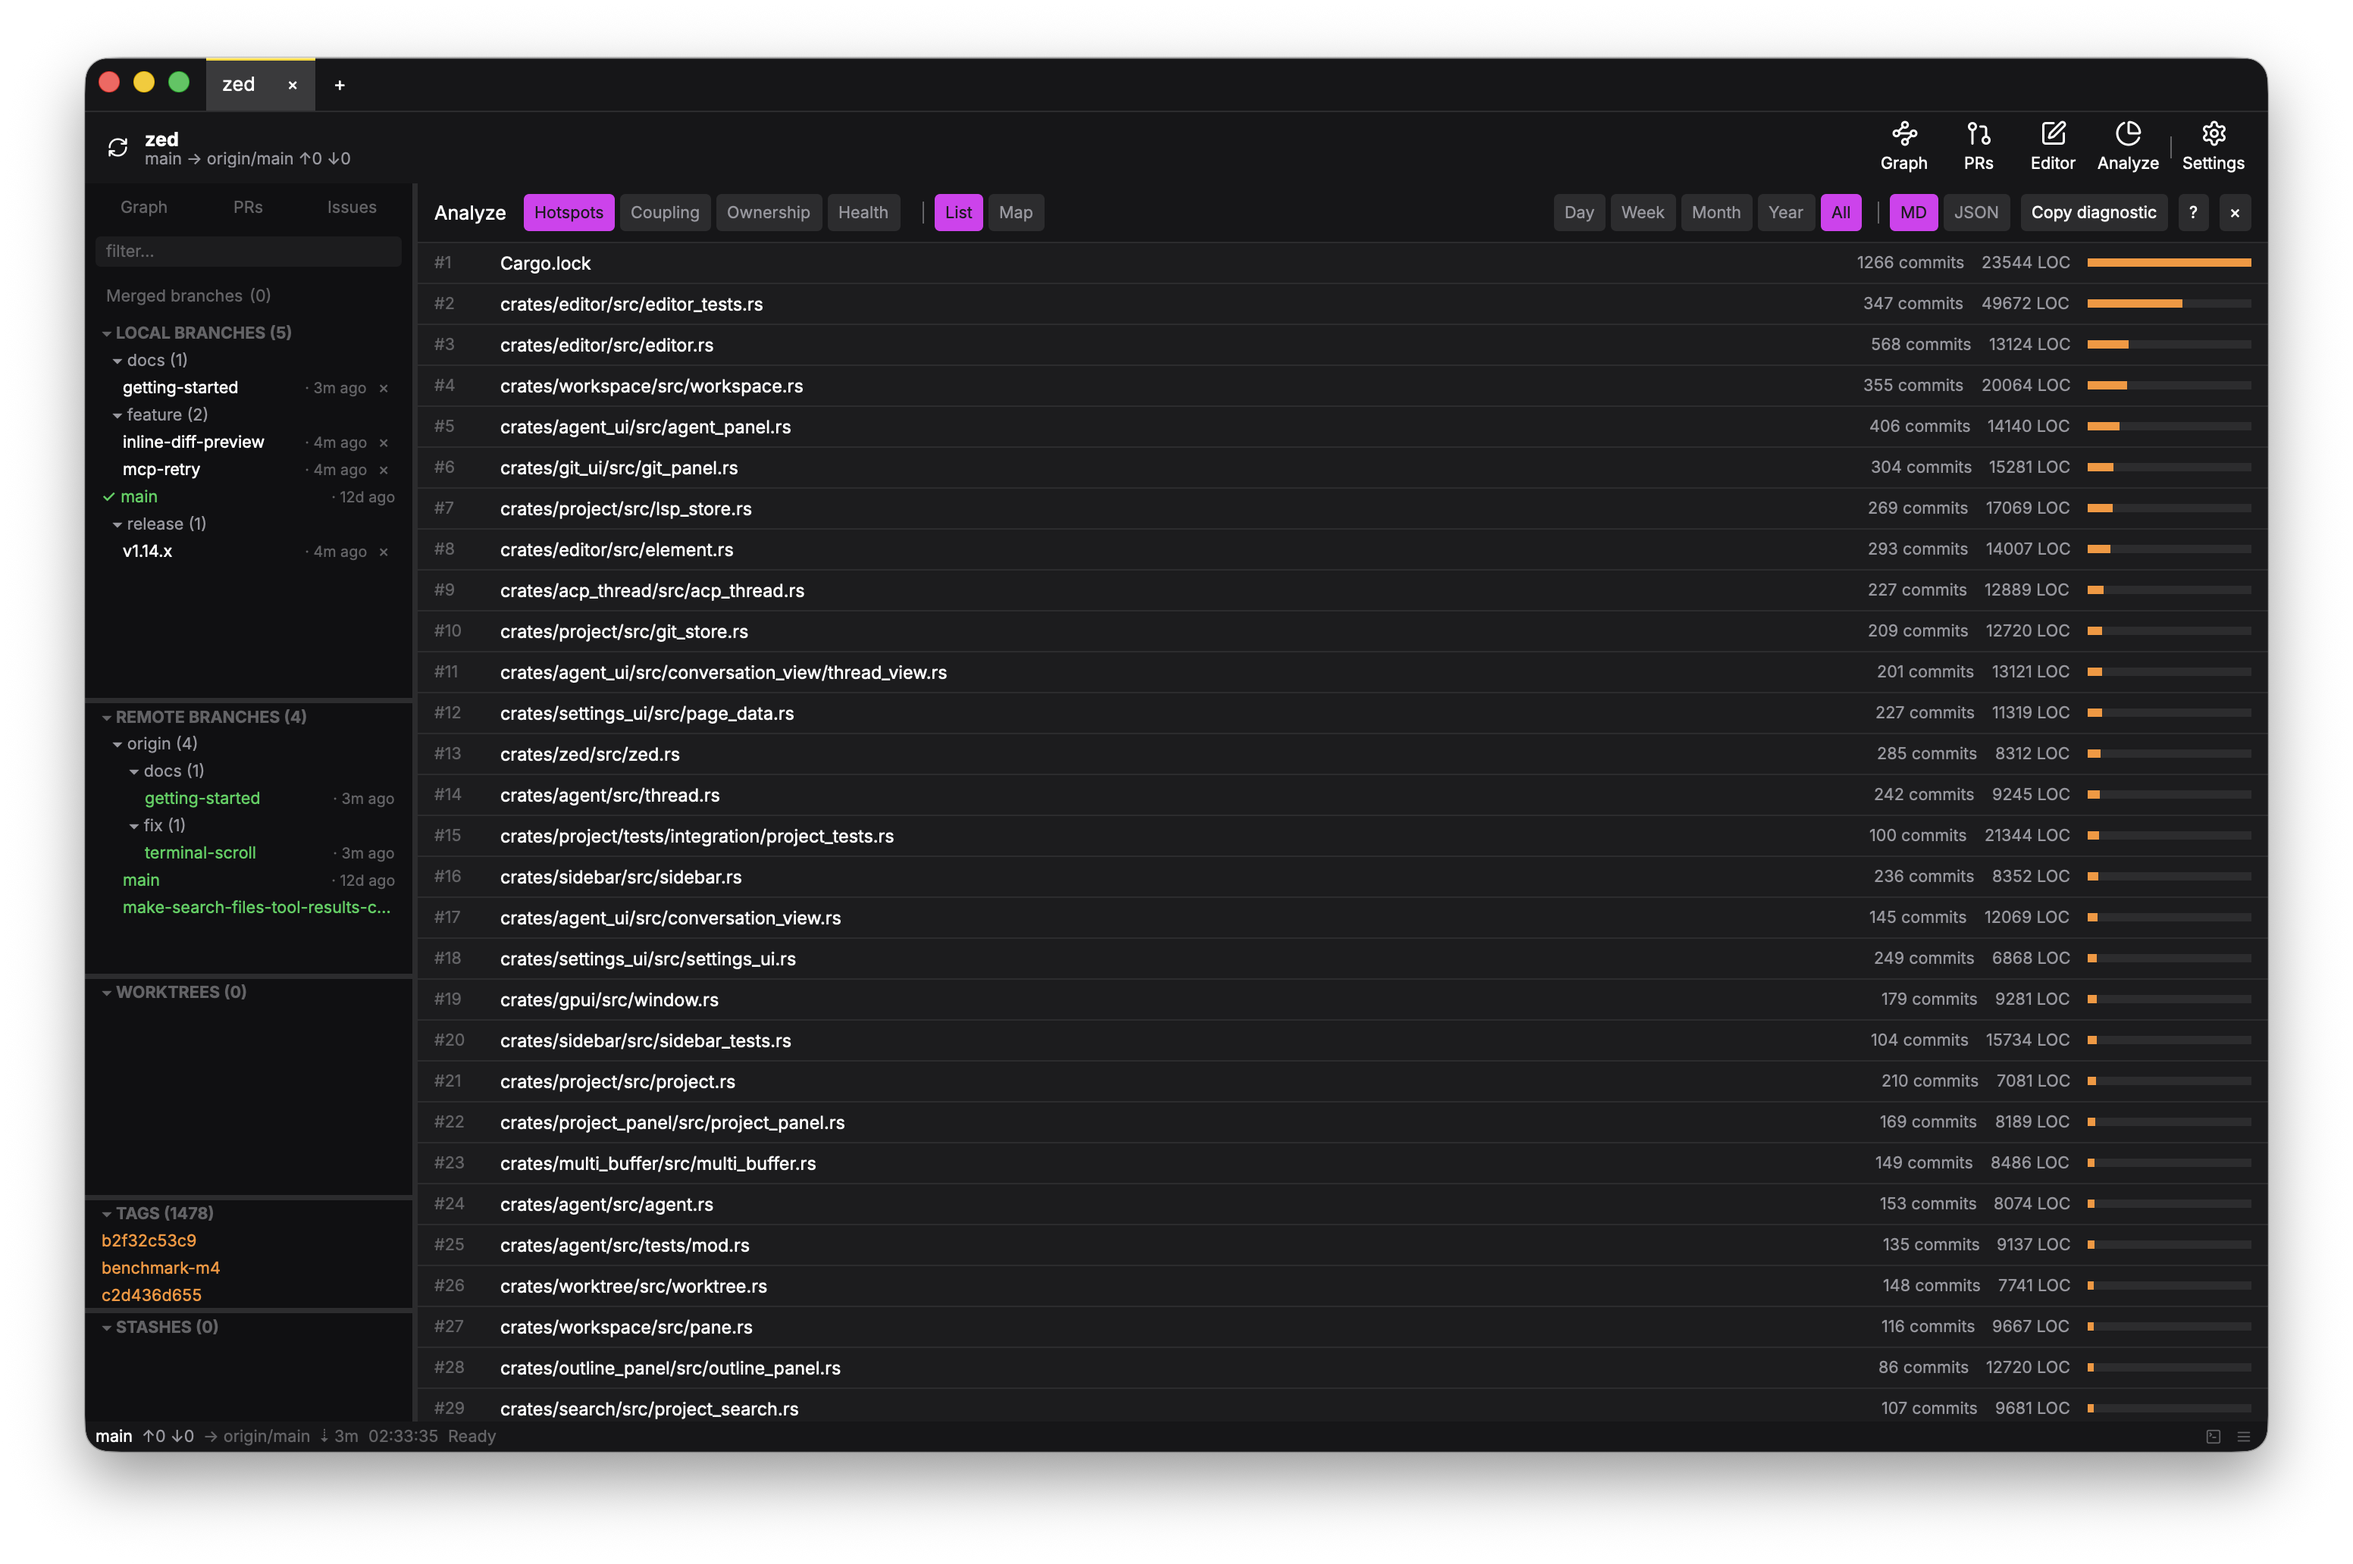
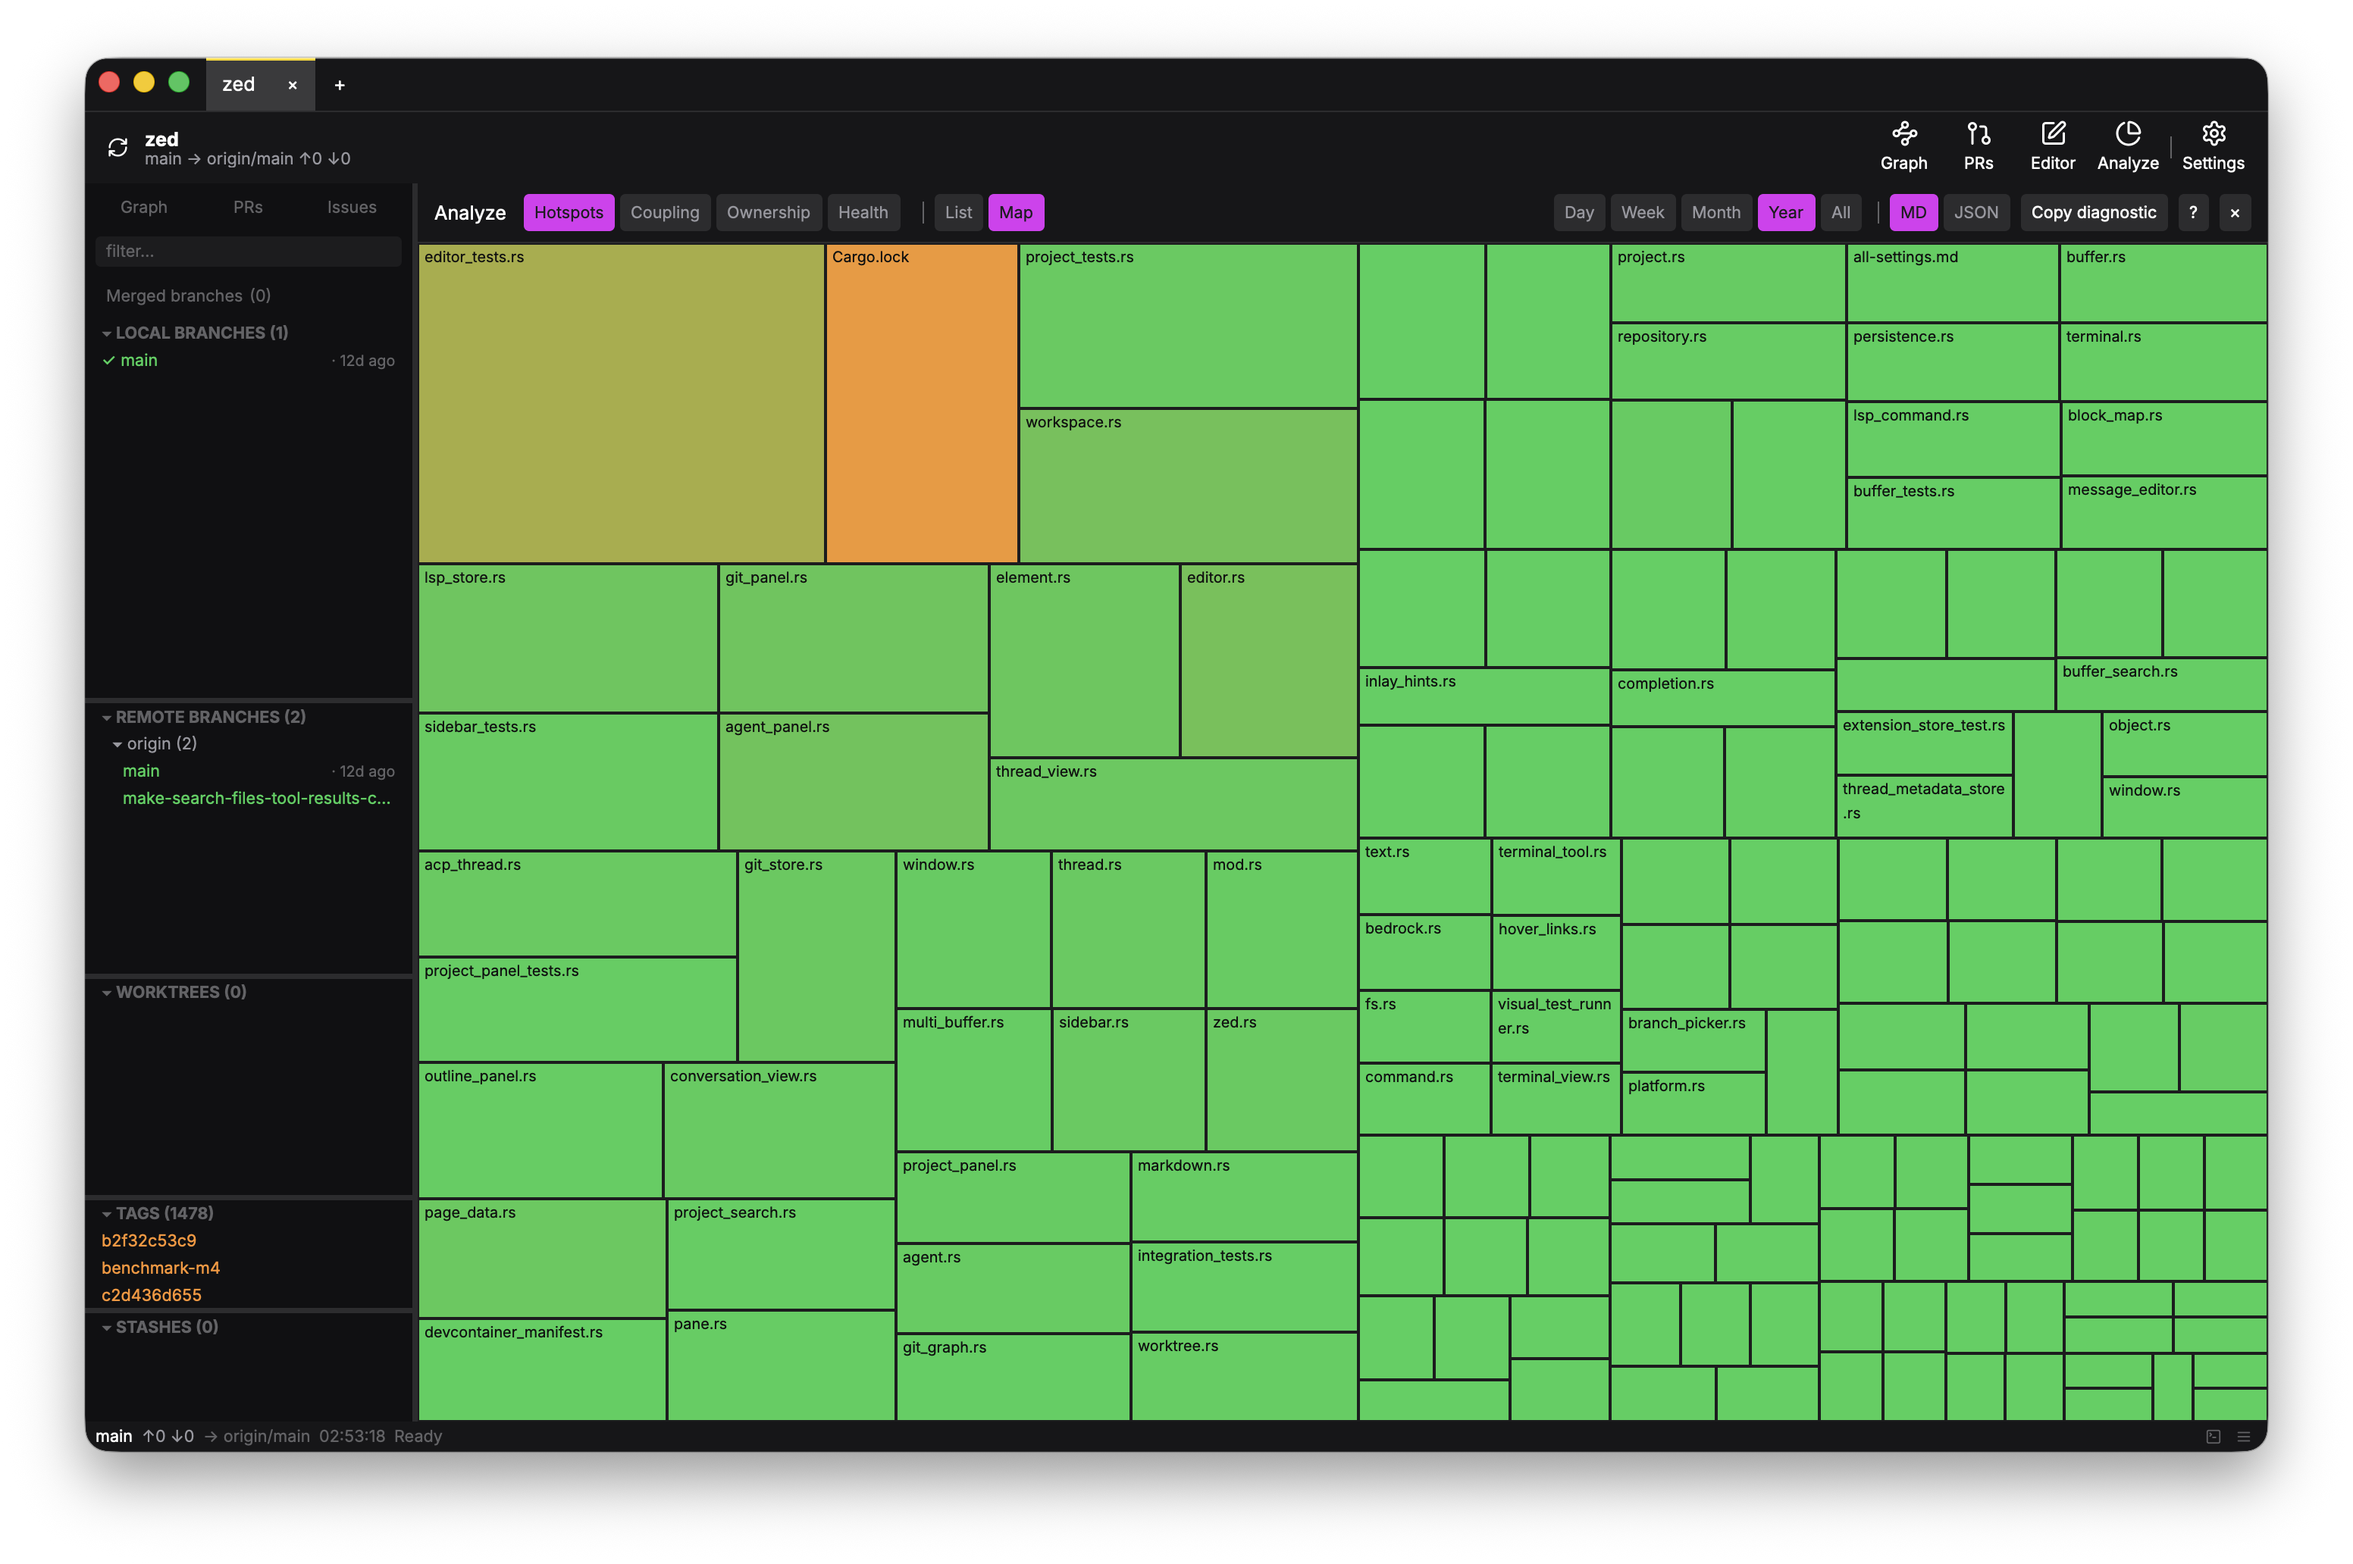
docs: hotspots をツリーマップで撮り直し、被写体の説明文を現状に(#1049)

diff --git a/README.md b/README.md
@@ -62,7 +62,7 @@ In the shot above, one branch moved the LED to the board's built-in pin and anot
 <img src="docs/images/graph-stash.png" width="900" alt="Commit graph with colored lanes, ref badges, a HEAD ring, a WIP row at the top, and a stash rendered in the graph with a yellow line to its base commit" />
 </div>
 
-Colored lanes track each branch's history; ref badges and a HEAD ring mark where you are; merge nodes render inline; a live **WIP row** sits at the top; and **stashes are drawn right in the graph** — each with a line back to the commit it was created on. A label-to-node connector ties every branch and tag to its commit. Virtualized, so it stays smooth on repositories with 10k+ commits (the screenshots are real history — Zed above, a small fixture here).
+Colored lanes track each branch's history; ref badges and a HEAD ring mark where you are; merge nodes render inline; a live **WIP row** sits at the top; and **stashes are drawn right in the graph** — each with a line back to the commit it was created on. A label-to-node connector ties every branch and tag to its commit. Virtualized, so it stays smooth on repositories with 10k+ commits (the screenshots are the real Zed history with a few demo branches added; the conflict shot above uses a small Arduino Blink sketch).
 
 ## See every worktree at once
 
@@ -91,7 +91,7 @@ Open **File History** on any file to walk every commit that touched it: the per-
 ## See where change concentrates
 
 <div align="center">
-<img src="docs/images/hotspots.png" width="900" alt="Analyze view in Hotspots mode — files risk-ranked by churn × size, with churn / LOC / risk-bar columns, a window selector, a List / Map toggle, the Hotspots / Coupling / Ownership / Health mode switch, and a Copy diagnostic action" />
+<img src="docs/images/hotspots.png" width="900" alt="Analyze view in Hotspots mode — files risk-ranked by churn × size as a treemap heatmap (tile size = LOC, colour = risk), with a window selector, a List / Map toggle, the Hotspots / Coupling / Ownership / Health mode switch, and a Copy diagnostic action" />
 </div>
 
 **Analyze** (a read-only toolbar view, next to Settings) mines your whole Git history into a map of the repo's "code ecosystem" — it adds no write operation and no new Git command, and it's framed as *attention*, never a verdict. Three modes share one **window selector** (Day / Week / Month / Year / All):
